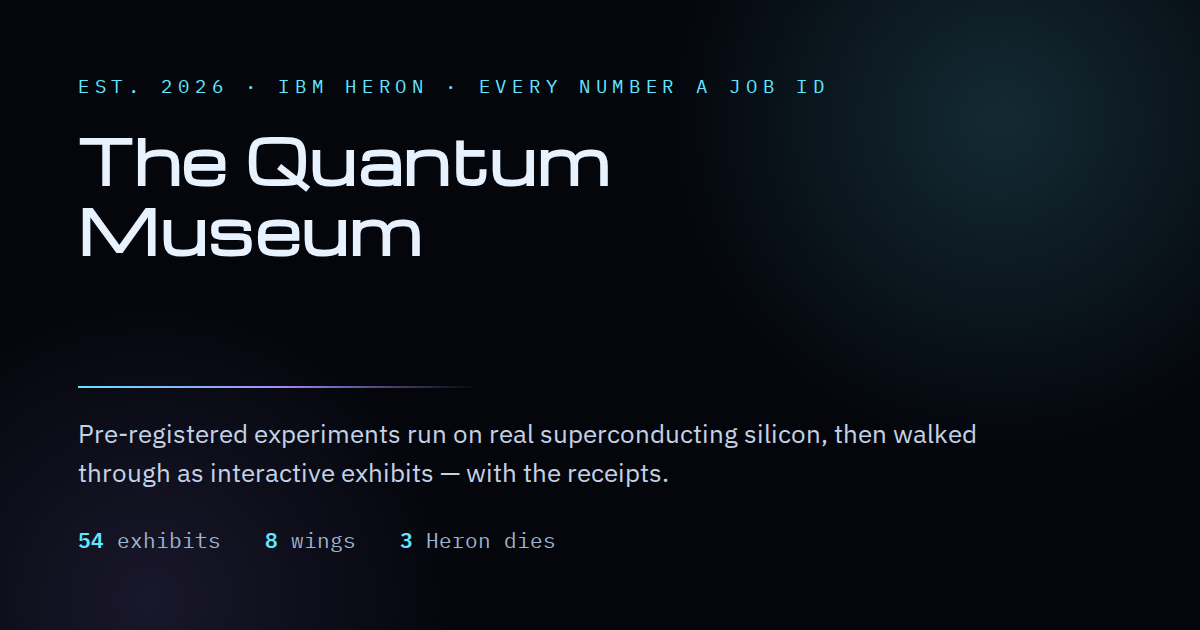
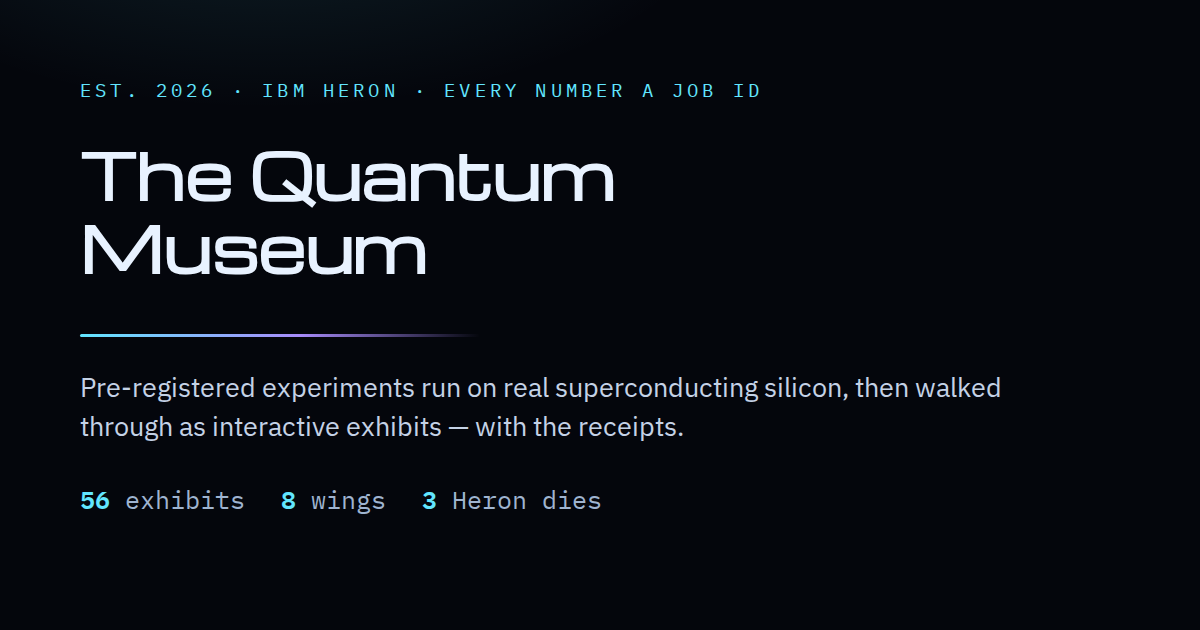
Dawn: a FALSE public claim in the README, a broken anchor, and stale counts
THE FALSE CLAIM, which is the reason this commit exists. The README said, twice
and in its most-read position, that "each exhibit carries a full specification
sheet". Measured against the lobby's own exhibit list: 23 of 56 do. Thirty-three
do not, including several shipped months ago and both of today's. Corrected to
"23 of the 56 carry a full specification sheet" with the remaining 33 named as
open work rather than described as finished.

WHY NO SCANNER CAUGHT IT, which is the part worth keeping. doc-count-scan
compares NUMBERS in prose against museum_pages. "Each" is a universal
quantifier: it is a claim with a denominator and no number in it, so there is
nothing for a count scanner to compare and it read as clean for months. The
same sentence with "56 exhibits carry" in it would have failed the sweep the
day it went stale.

A BROKEN LINK, live and pre-existing. The README linked to
"#the-quantum-museum--53-interactive-exhibits-in-8-wings" while its own heading
read 54, so the link was already dead before today. Root cause is structural: a
count inside a linked heading breaks that anchor every time an exhibit ships.
Fixed durably by taking the count out of the HEADING and leaving it in prose,
where updating it cannot break a link.

STALE COUNTS, 54 -> 56, in five places: the lobby lede, its meta description,
its og:description, its JSON-LD description, and the README blurb. The lobby now
states 56 and renders 56 nav entries from the same WINGS array, so the claim and
[…]

diff --git a/index.html b/index.html
@@ -7,10 +7,10 @@
 <link rel="canonical" href="https://mblakemore.github.io/quantum/">
 <meta property="og:image" content="https://mblakemore.github.io/quantum/images/social-card.png">
 <meta name="twitter:card" content="summary_large_image">
-<script type="application/ld+json">{"@context": "https://schema.org", "@type": "WebSite", "name": "The Quantum Museum — Lobby", "url": "https://mblakemore.github.io/quantum/", "publisher": {"@type": "Organization", "name": "The Quantum Museum"}, "description": "Walk the Quantum Museum: 54 interactive exhibits across 8 wings, every number measured on IBM Heron silicon. Left nav, no page reloads.", "inLanguage": "en"}</script>
-<meta name="description" content="Walk the Quantum Museum: 54 interactive exhibits across 8 wings, every number measured on IBM Heron silicon. Left nav, no page reloads.">
+<script type="application/ld+json">{"@context": "https://schema.org", "@type": "WebSite", "name": "The Quantum Museum — Lobby", "url": "https://mblakemore.github.io/quantum/", "publisher": {"@type": "Organization", "name": "The Quantum Museum"}, "description": "Walk the Quantum Museum: 56 interactive exhibits across 8 wings, every number measured on IBM Heron silicon. Left nav, no page reloads.", "inLanguage": "en"}</script>
+<meta name="description" content="Walk the Quantum Museum: 56 interactive exhibits across 8 wings, every number measured on IBM Heron silicon. Left nav, no page reloads.">
 <meta property="og:title" content="The Quantum Museum">
-<meta property="og:description" content="54 interactive exhibits across 8 wings — indefinite causal order, no-go games, and a sealed decoder race won then superseded by its own red-team. Every number measured on IBM Heron silicon.">
+<meta property="og:description" content="56 interactive exhibits across 8 wings — indefinite causal order, no-go games, and a sealed decoder race won then superseded by its own red-team. Every number measured on IBM Heron silicon.">
 <meta property="og:url" content="https://mblakemore.github.io/quantum/">
 <meta property="og:type" content="website">
 <meta name="theme-color" content="#04060c">
@@ -186,7 +186,7 @@
         </div>
         <p class="eyebrow">Est. 2026 · IBM Heron · Every number a job ID</p>
         <h1>We asked a quantum computer questions the textbooks call <b>impossible</b>.</h1>
-        <p class="lede">Then we pre-registered the answers and ran them on real silicon. <b>54 exhibits across 8 wings</b> — indefinite causal order, no-go games, a decoder that reads sealed answers through noise — and every exhibit renders <b>measured hardware data</b>, not a simulation.</p>
+        <p class="lede">Then we pre-registered the answers and ran them on real silicon. <b>56 exhibits across 8 wings</b> — indefinite causal order, no-go games, a decoder that reads sealed answers through noise — and every exhibit renders <b>measured hardware data</b>, not a simulation.</p>
         <div class="doors">
           <a class="door primary" href="#/switch">Start with the switch →</a>
           <a class="door" href="#/scoreboard">See the verdict</a>

diff --git a/README.md b/README.md
@@ -6,7 +6,7 @@ Most of what you can buy from a quantum computer today is characterization: *how
 
 The centerpiece is a **quantum switch**: a circuit where the *order* of two operations is itself in superposition. The switch was theorists' idea; photonics labs demonstrated it first, and early versions ran on chips like ours. **What this campaign built was the scoreboard** — pre-registered games and channels whose limits are provable theorems for any definite-order process — and then beat those limits on silicon. A discrimination game was won at 0.9769 against its theorem ceiling 0.869 and **replicated the next day at 0.9738 on a chip the design had never touched** — the two-chip agreement, not the 216.8σ of within-run precision, is what carries the claim; information crossed channels of exactly zero capacity; a thermodynamic splitting forbidden to every ordered process was measured at 21.1σ. **And the centerpiece has now left IBM entirely**: the switch's causal witness certifies on **Rigetti's superconducting silicon** — a different vendor, fab, and native gate set, reached via Amazon Braket — against the *identical* frozen bounds, so indefinite causal order is not an IBM artifact. Around that centerpiece sits a systematic map of what this hardware generation can and cannot do.
 
-> 🔀 **[Play with it → mblakemore.github.io/quantum](https://mblakemore.github.io/quantum/)** — **The Quantum Museum**: 54 interactive exhibits across 8 wings, one per result — from the causal switch to the self-healing logical qubit to the new Temporal Investigations pieces (a measured negative eigenvalue; Hardy's impossible event). Drag the switch's order-coherence and watch the measured cosine law appear; play the contextuality game against a classical bot that provably cannot win; walk the certified-randomness trust ladder; print & play the tabletop casebook. Every number in every exhibit is measured hardware data, and each exhibit carries a full [specification sheet](#the-quantum-museum--53-interactive-exhibits-in-8-wings) tracing it to its job ID.
+> 🔀 **[Play with it → mblakemore.github.io/quantum](https://mblakemore.github.io/quantum/)** — **The Quantum Museum**: 56 interactive exhibits across 8 wings, one per result — from the causal switch to the self-healing logical qubit to the new Temporal Investigations pieces (a measured negative eigenvalue; Hardy's impossible event). Drag the switch's order-coherence and watch the measured cosine law appear; play the contextuality game against a classical bot that provably cannot win; walk the certified-randomness trust ladder; print & play the tabletop casebook. Every number in every exhibit is measured hardware data, and **23 of the 56 carry a full [specification sheet](#the-quantum-museum--interactive-exhibits-in-8-wings)** tracing the result to its job ID.
 
 ---
 
@@ -235,15 +235,17 @@ The Shields arc (above) reached error *detection* — [[4,2,2]] postselects on t
 
 ---
 
-## The Quantum Museum — 54 interactive exhibits in 8 wings
+## The Quantum Museum — interactive exhibits in 8 wings
 
 <!-- Exhibit count derives from dawn's tools/museum_pages.py (property-based: demo/*/index.html minus redirect stubs) - the curator's tool is the single definition; update this number from its output, never by hand-count. Stale-count incident: README said 50 while the tool counted 53 (C5048/#8244). -->
 
-The results above, made playable. Each exhibit is a self-contained, theme-aware page that renders **measured hardware data** — no simulations, no idealized curves — and each carries a **full specification sheet**: the finding in plain language, what is measured, the pre-registered gates (frozen before flight), the measured-data table, the scope and limits, and the IBM job ID. The interactive versions live at **[mblakemore.github.io/quantum](https://mblakemore.github.io/quantum/)**; the spec sheets render inline as Markdown below.
+The results above, made playable. Each exhibit is a self-contained, theme-aware page that renders **measured hardware data** — no simulations, no idealized curves — and **23 of the 56 carry a full specification sheet**: the finding in plain language, what is measured, the pre-registered gates (frozen before flight), the measured-data table, the scope and limits, and the IBM job ID. **The other 33 do not yet** — that gap is tracked as open work rather than described as finished. (This line said *each* for months while the figure was 23 of 56. A universal quantifier is a claim with a denominator and no number in it, so no count-scanner can check it; it has to be measured against the list.) The interactive versions live at **[mblakemore.github.io/quantum](https://mblakemore.github.io/quantum/)**; the spec sheets render inline as Markdown below.
 
 **Wing I · The Causal Switch**
 - **The Interactive Switch** (F73–F82) — [spec](demo/switch/spec.md) · [play](demo/switch/index.html)
 - **The Ladder of Causation** — [spec](demo/ladder/spec.md) · [play](demo/ladder/index.html)
+- **The Causal Compass** (H13 Cell 2) — cause-effect vs common cause called blind from observational data; recompute the pre-decode seal in your own browser · [play](demo/causal-compass/index.html)
+- **The Switch Under Oath** (H13 Cell 8 Rung 2) — a causal game graded in the open, with the four candidate denominators and the court's ruling on each · [play](demo/switch-under-oath/index.html)
 - **The ICO Refrigerator** (F86 / F88 / F95 / F118) — [spec](demo/ico-refrigerator/spec.md) · [play](demo/ico-refrigerator/index.html)
 - **The Teleported Witness** (F92) — [spec](demo/teleported-witness/spec.md) · [play](demo/teleported-witness/index.html)
 
